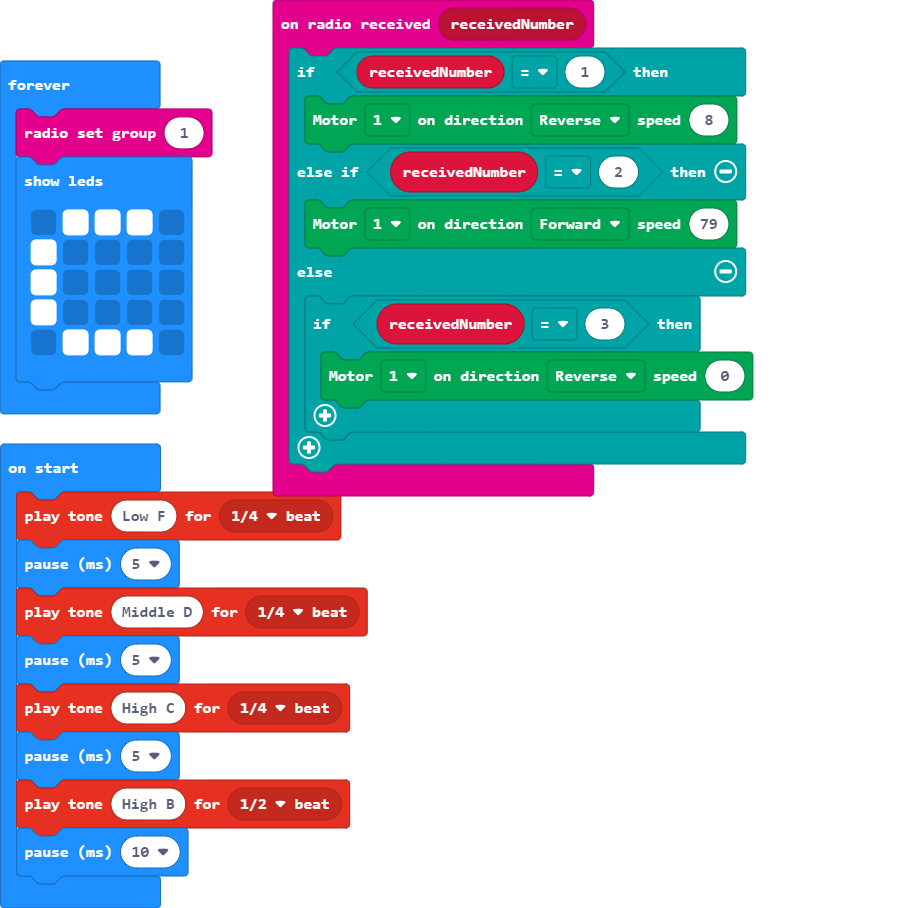
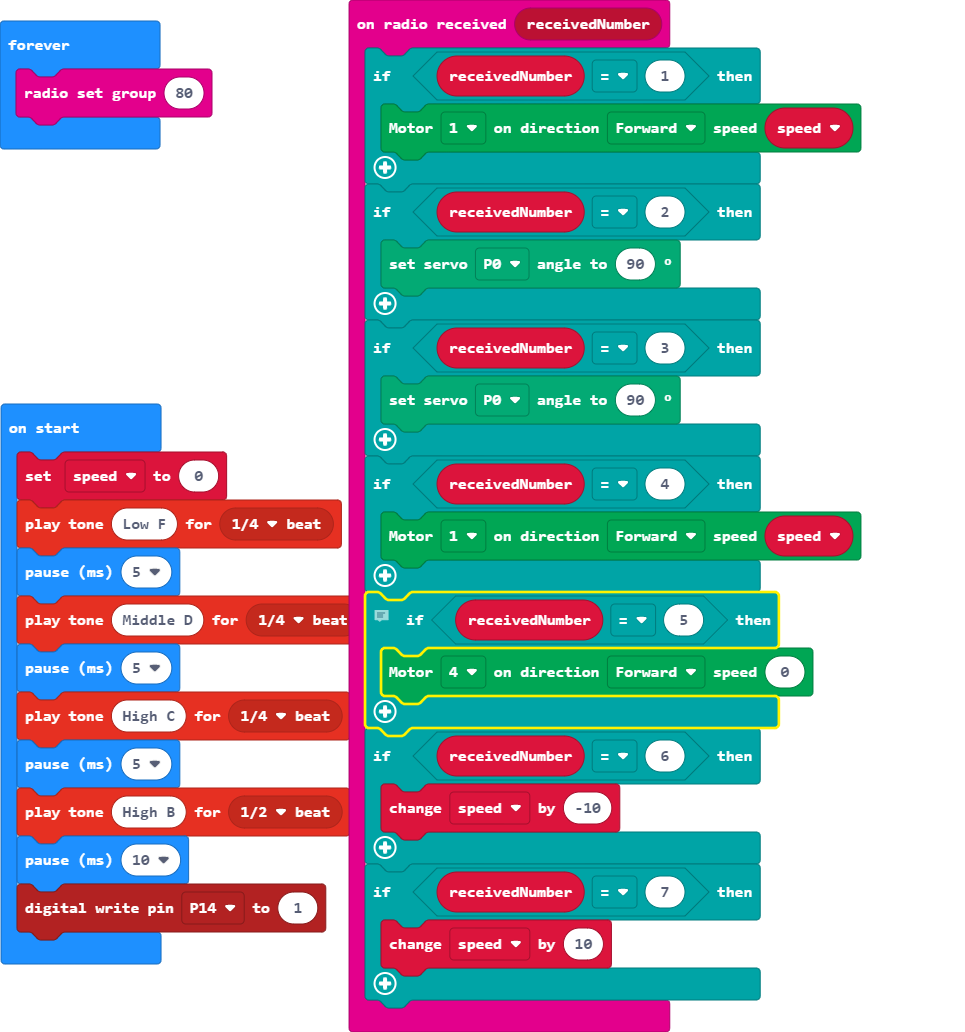
Update main.blocks, main.ts

diff --git a/main.ts b/main.ts
@@ -1,14 +1,29 @@
 radio.onReceivedNumber(function (receivedNumber) {
     if (receivedNumber == 1) {
-        Kitronik_Robotics_Board.motorOn(Kitronik_Robotics_Board.Motors.Motor1, Kitronik_Robotics_Board.MotorDirection.Reverse, 8)
-    } else if (receivedNumber == 2) {
-        Kitronik_Robotics_Board.motorOn(Kitronik_Robotics_Board.Motors.Motor1, Kitronik_Robotics_Board.MotorDirection.Forward, 79)
-    } else {
-        if (receivedNumber == 3) {
-            Kitronik_Robotics_Board.motorOn(Kitronik_Robotics_Board.Motors.Motor1, Kitronik_Robotics_Board.MotorDirection.Reverse, 0)
-        }
+        Kitronik_Robotics_Board.motorOn(Kitronik_Robotics_Board.Motors.Motor1, Kitronik_Robotics_Board.MotorDirection.Forward, speed)
+    }
+    if (receivedNumber == 2) {
+        servos.P0.setAngle(90)
+    }
+    if (receivedNumber == 3) {
+        servos.P0.setAngle(90)
+    }
+    if (receivedNumber == 4) {
+        Kitronik_Robotics_Board.motorOn(Kitronik_Robotics_Board.Motors.Motor1, Kitronik_Robotics_Board.MotorDirection.Forward, speed)
+    }
+    // DRS - if button is turned on motor 2 will turn for a second turned off it will go back to its original position
+    if (receivedNumber == 5) {
+        Kitronik_Robotics_Board.motorOn(Kitronik_Robotics_Board.Motors.Motor4, Kitronik_Robotics_Board.MotorDirection.Forward, 0)
+    }
+    if (receivedNumber == 6) {
+        speed += -10
+    }
+    if (receivedNumber == 7) {
+        speed += 10
     }
 })
+let speed = 0
+speed = 0
 music.playTone(175, music.beat(BeatFraction.Quarter))
 basic.pause(5)
 music.playTone(294, music.beat(BeatFraction.Quarter))
@@ -17,13 +32,7 @@ music.playTone(523, music.beat(BeatFraction.Quarter))
 basic.pause(5)
 music.playTone(988, music.beat(BeatFraction.Half))
 basic.pause(10)
+pins.digitalWritePin(DigitalPin.P14, 1)
 basic.forever(function () {
-    radio.setGroup(1)
-    basic.showLeds(`
-        . # # # .
-        # . . . .
-        # . . . .
-        # . . . .
-        . # # # .
-        `)
+    radio.setGroup(80)
 })
